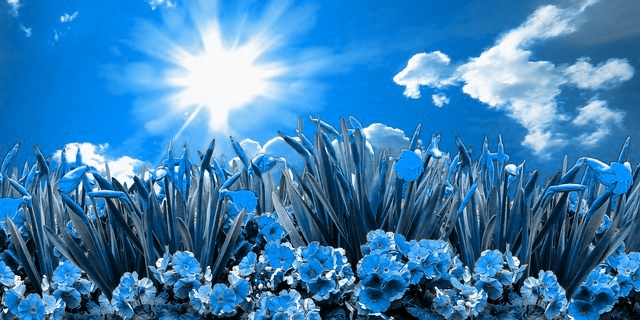
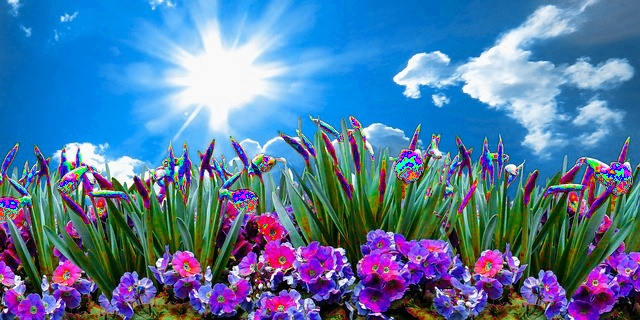
update

diff --git a/Sources/analogue_converge.py b/Sources/analogue_converge.py
@@ -1,0 +1,152 @@
+import cv2
+import random
+import math
+from imgTools import *
+
+
+#trouve la meilleurs harmonisation et effectue la modification de l'image
+def findBestHarmonieAnalogue(histoHSV, imgHSV, verbose = True):
+    ecart = 10
+    #le mode correspond a un p
+    #mode = couleur, occurance 
+    mode = (0,0)
+    ite = 0
+    for key, value in histoHSV.items():
+        ite+=1
+        color = key #teinte de la couleur
+      #  print(color)
+        #calcul de la couleur complémentaire
+        colorA = (color-ecart)%180
+        colorB = (color+ecart)%180
+        #on prend en compte aussi les voisines
+        #somme =sommeVoisine(histoHSV,color) + sommeVoisine(histoHSV, colorCompl)
+        somme = sommeVoisinHSV(histoHSV, color)+ sommeVoisinHSV(histoHSV, colorB)+ sommeVoisinHSV(histoHSV, colorA)
+
+        if somme > mode[1]:
+            mode = (color, somme)
+        if verbose:
+            verbosePourcent(ite, len(histoHSV))
+
+        modecolorA = (mode[0]-ecart)%180
+        modecolorB = (mode[0]+ecart)%180
+
+    print("couleur :        ", mode[0])
+    print("analogue1 : ", modecolorA)
+    print("analogue2 : ", modecolorB)
+    print("nbOcc : ", mode[1])
+    #on harmonise les couleur de l'image
+    for i in range(0,imgHSV.shape[0]):
+        for j in range(0,imgHSV.shape[1]):
+            #calcul de la distance entre le mode et le complémentaire
+            #on modifie les pixel courant        
+            distColor = abs(mode[0]-imgHSV[i,j][0])# distanceComp(mode[0], img[i,j],0)
+            distcolorA = abs(modecolorA-imgHSV[i,j][0]) #distanceComp(modeCompl, img[i,j],0)
+            distcolorB = abs(modecolorB-imgHSV[i,j][0])
+
+            if not(distcolorA <ecart and distcolorB<ecart):
+                if distcolorA < distcolorB:
+                    imgHSV.itemset((i,j,0),modecolorA)
+                else:
+                    imgHSV.itemset((i,j,0),modecolorB)
+            
+
+
+
+#### ATTENTION: ####
+# OPENCV utilise le format BGR (bleu, vert, rouge)
+# pensez a rectifier si nécessaire pour les calculs
+####
+
+#filename = "cat3"
+filename = "fleurs"
+img = cv2.imread ("../Images/Inputs/"+filename+".jpg")
+#ImgIndex = cv2.cvtColor(img, cv2.COLOR_BGR2GRAY)
+
+
+histoHSV = getHistoHSV(img)
+
+
+hsvImage = cv2.cvtColor(img, cv2.COLOR_BGR2HSV)
+max =0
+for i in range(0,hsvImage.shape[0]):
+    for j in range(0,hsvImage.shape[1]):
+        if max< hsvImage[i,j][0]:
+            max = hsvImage[i,j][0]
+
+
+print("max teinte   : ",max ,"\n\n\n")
+#print("couleur   : ",hsvImage[0,0])
+
+findBestHarmonieAnalogue(histoHSV, hsvImage)
+#findBestHarmonieTriad(histo, img)
+
+img = cv2.cvtColor(hsvImage, cv2.COLOR_HSV2BGR)
+cv2.imwrite("../Images/Outputs/"+filename+"/"+filename+"_AnalogueHSV.jpg", hsvImage)
+cv2.imwrite("../Images/Outputs/"+filename+"/"+filename+"_Analogue.jpg", img)
+
+
+
+                
+#for key, value in histo.items():
+ #   if value >100:
+  #      print(key[2], '    ', value)
+
+
+
+
+
+
+
+
+
+
+
+
+
+#print(len(histo));
+#print("miaou")
+#print(img.shape);
+#cv2.namedWindow('image', cv2.WINDOW_NORMAL)
+#cv2.imshow('image',img)
+
+
+
+
+
+
+
+
+
+
+
+#for i in range(0,img.shape[0]):
+#    for j in range(0,img.shape[1]):
+#        pixel = img[i, j];
+#        pixel = img.item(i, j,0)
+#        print (pixel)
+
+
+#img.itemset((50, 50, 1), 25)
+
+
+"""
+import cv2 as cv
+import numpy as np
+from matplotlib import pyplot as plt
+img=cv.imread ("fleur.png");
+#RGB -> HSV.
+hsv = cv.cvtColor(img, cv.COLOR_BGR2HSV)
+#Déclaration des couleurs des courbes
+color = ('r','g','b')
+#Déclaration des noms des courbes.
+labels = ('h','s','v')
+#Pour col allant r à b et pour i allant de 0 au nombre de couleurs
+for i,col in enumerate(color):
+    #Hist prend la valeur de l'histogramme de hsv sur la canal i.
+    hist = cv.calcHist([hsv],[i],None,[256],[0,256])
+    # Plot de hist.
+    plt.plot(hist,color = col,label=labels[i])
+    plt.xlim([0,256])
+#Affichage.
+plt.show()
+"""
